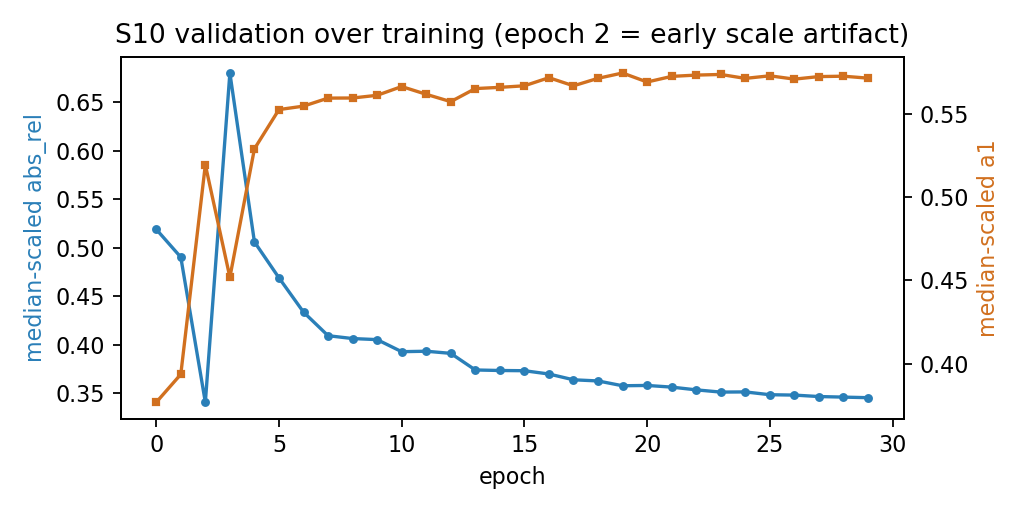
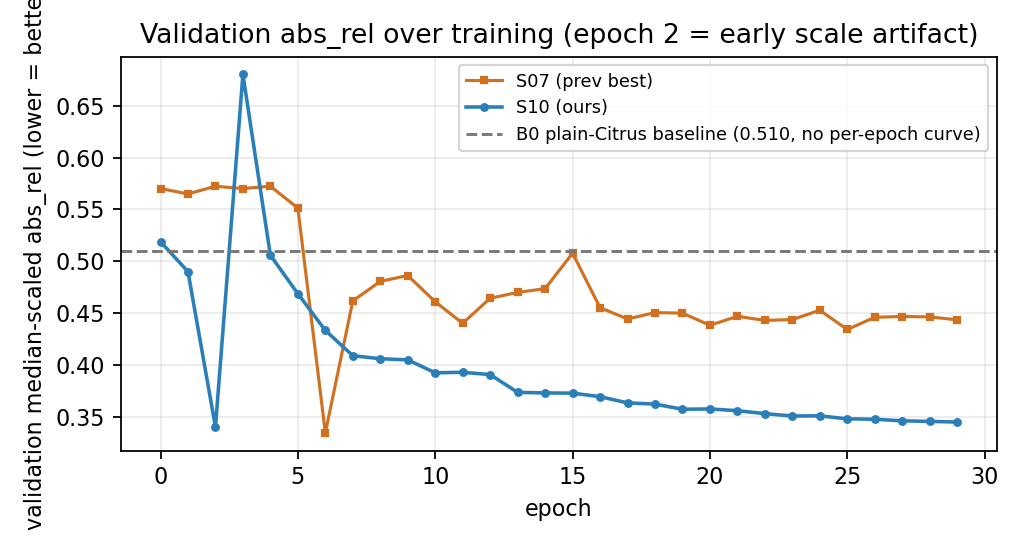
docs(m4): improve paper figures and link colors
- Epoch graph (fig_val_curve): overlay S10 vs S07 validation curves + B0 baseline
  reference line (baselines have no per-epoch curve, shown as a level).
- Qualitative panels (corridor/clearing): re-rendered via GPU inference as legible
  depth-in-meters (magma, shared colorbar: RGB | LiDAR | Original | S07 | S10),
  replacing the unreadable near-black disparity maps. Adds render_qual_compare.py.
- main.tex: colored hyperlinks (citations green, refs blue, URLs purple).

diff --git a/citrus_project/milestones/04_lightweight_vegetation_improvement/levinson/paper/render_qual_compare.py b/citrus_project/milestones/04_lightweight_vegetation_improvement/levinson/paper/render_qual_compare.py
@@ -1,0 +1,92 @@
+"""Re-render the qualitative comparison figures as legible DEPTH maps (not dark disparity).
+
+For each chosen frame: RGB | LiDAR label | Original | S07 | S10 predicted depth (median-scaled
+to the LiDAR per frame), all in the same magma colormap + shared colorbar — directly comparable.
+Needs the GPU + dataset_workspace; reuses the milestone-01 evaluator's model loader.
+
+Run from paper/:  D:/Conda_Envs/lite-mono/python.exe render_qual_compare.py
+"""
+from __future__ import annotations
+import csv, sys
+from pathlib import Path
+import numpy as np
+import matplotlib
+matplotlib.use("Agg")
+import matplotlib.pyplot as plt
+
+REPO = Path(__file__).resolve().parents[5]
+EVAL_DIR = REPO / "citrus_project" / "milestones" / "01_original_lite_mono_baseline"
+WORKSPACE = REPO / "citrus_project" / "dataset_workspace"
+FIG = Path(__file__).resolve().parent / "figures"
+LEV = Path(__file__).resolve().parents[1]
+sys.path.insert(0, str(EVAL_DIR))
+from evaluate_lite_mono_citrus import image_to_input_tensor, load_lite_mono_model, load_npz_array  # noqa: E402
+from PIL import Image  # noqa: E402
+
+MODELS = [
+    ("Original Lite-Mono", REPO / "weights" / "lite-mono"),
+    ("S07", LEV / "snapshots/07_structure_aware_label_free_vegetation_depth/checkpoint"),
+    ("S10 (ours)", LEV / "snapshots/10_ema_self_teacher/checkpoint"),
+]
+# frame index -> (output filename, scene label)
+FRAMES = {
+    358: ("fig_qual_corridor_good.png", "In-row corridor (low error)"),
+    44:  ("fig_qual_clearing_bad.png", "Open clearing (high error)"),
+}
+PS_CSV = LEV / "snapshots/10_ema_self_teacher/results/weights29_test_reverify/test_lite-mono_full_per_sample.csv"
+
+
+def infer_depth(model, rgb_path, shape):
+    import torch, torch.nn.functional as F
+    with Image.open(rgb_path) as im:
+        t = image_to_input_tensor(im.convert("RGB"), model)
+    with torch.no_grad():
+        feats = model.encoder(t)
+        out = model.depth_decoder(feats)
+        _, depth = model.disp_to_depth(out[("disp", 0)], model.min_depth, model.max_depth)
+        depth = F.interpolate(depth, size=shape, mode="bilinear", align_corners=False)
+    return depth.detach().cpu().numpy()[0, 0].astype(np.float32)
+
+
+rows = {int(r["index"]): r for r in csv.DictReader(open(PS_CSV))}
+loaded = [(name, load_lite_mono_model(weights_folder=wf.resolve(), model_name="lite-mono",
+                                      no_cuda=False, min_depth=0.1, max_depth=100.0))
+          for name, wf in MODELS]
+
+for index, (out_name, scene) in FRAMES.items():
+    r = rows[index]
+    rgb_path = WORKSPACE / r["rgb_rel"]
+    gt = load_npz_array(WORKSPACE / r["dense_rel"]).astype(np.float32)
+    valid = load_npz_array(WORKSPACE / r["valid_mask_rel"])
+    emask = (valid > 0) & np.isfinite(gt) & (gt > 0)
+    gt_med = float(np.median(gt[emask]))
+
+    preds = []
+    for name, model in loaded:
+        d = infer_depth(model, rgb_path, gt.shape)
+        ratio = gt_med / float(np.median(d[emask]))  # per-frame median scaling, like eval
+        preds.append((name, d * ratio))
+
+    allv = np.concatenate([gt[emask]] + [p[emask] for _, p in preds])
+    vmin, vmax = np.percentile(allv, 2), np.percentile(allv, 98)
+
+    n = 2 + len(preds)
+    fig, axes = plt.subplots(1, n, figsize=(3.0 * n, 3.0), constrained_layout=True)
+    axes[0].imshow(Image.open(rgb_path).convert("RGB")); axes[0].set_title("RGB", fontsize=10)
+    lab = np.where(emask, gt, np.nan)
+    axes[1].imshow(lab, cmap="magma_r", vmin=vmin, vmax=vmax)
+    axes[1].set_title("LiDAR depth (label)", fontsize=10)
+    im = None
+    for ax, (name, p) in zip(axes[2:], preds):
+        im = ax.imshow(p, cmap="magma_r", vmin=vmin, vmax=vmax)
+        ax.set_title(f"{name} depth", fontsize=10)
+    for ax in axes:
+        ax.axis("off")
+    cb = fig.colorbar(im, ax=axes, fraction=0.025, pad=0.01)
+    cb.set_label("depth (m)", fontsize=9)
+    fig.suptitle(f"{scene} — frame {index}, abs_rel={float(r['median_scaled_abs_rel']):.3f}, "
+                 f"a1={float(r['median_scaled_a1']):.3f}", fontsize=11)
+    fig.savefig(FIG / out_name, dpi=160)
+    plt.close(fig)
+    print(f"[ok] {out_name}  (vmin={vmin:.2f} vmax={vmax:.2f} m)")
+print("done")

diff --git a/citrus_project/milestones/04_lightweight_vegetation_improvement/levinson/paper/make_figures.py b/citrus_project/milestones/04_lightweight_vegetation_improvement/levinson/paper/make_figures.py
@@ -130,21 +130,31 @@ try:
 except Exception as e:
     print("[F5 fail]", e)
 
-# ---------- F6 per-epoch validation curve ----------
+# ---------- F6 per-epoch validation curve: S10 vs S07 vs B0 baseline ----------
 try:
-    sweep = LEV / "snapshots/10_ema_self_teacher/results/validation_sweep.csv"
-    ep, ar, a1 = [], [], []
-    for r in csv.DictReader(open(sweep)):
-        ep.append(int(r["epoch"])); ar.append(float(r["median_scaled_abs_rel"]))
-        a1.append(float(r["median_scaled_a1"]))
-    fig, ax1 = plt.subplots(figsize=(6.4, 3.2))
-    ax1.plot(ep, ar, color="#2a7fb8", marker="o", ms=3, label="val abs_rel")
-    ax1.set_xlabel("epoch"); ax1.set_ylabel("median-scaled abs_rel", color="#2a7fb8")
-    ax2 = ax1.twinx(); ax2.plot(ep, a1, color="#d1701f", marker="s", ms=3, label="val a1")
-    ax2.set_ylabel("median-scaled a1", color="#d1701f")
-    ax1.set_title("S10 validation over training (epoch 2 = early scale artifact)")
-    fig.tight_layout(); fig.savefig(FIG/"fig_val_curve.png", dpi=160)
-    plt.close(fig); print("[ok] fig_val_curve.png")
+    def load_sweep(p):
+        ep, ar = [], []
+        for r in csv.DictReader(open(p)):
+            ep.append(int(r["epoch"])); ar.append(float(r["median_scaled_abs_rel"]))
+        return ep, ar
+    s10_ep, s10_ar = load_sweep(LEV / "snapshots/10_ema_self_teacher/results/validation_sweep.csv")
+    s07_ep, s07_ar = load_sweep(LEV / "snapshots/07_structure_aware_label_free_vegetation_depth/results/validation_sweep.csv")
+    # B0 baseline has no per-epoch curve (only a final eval) -> horizontal reference line.
+    b0 = load_json(LEV / "snapshots/00_plain_citrus_baseline/results/val_lite-mono_full_summary.json")
+    b0_ar = (b0.get("mean_median_scaled_metrics", {}) or {}).get("abs_rel") if b0 else None
+
+    fig, ax = plt.subplots(figsize=(6.4, 3.4))
+    ax.plot(s07_ep, s07_ar, color="#d1701f", marker="s", ms=3, lw=1.4, label="S07 (prev best)")
+    ax.plot(s10_ep, s10_ar, color="#2a7fb8", marker="o", ms=3, lw=1.6, label="S10 (ours)")
+    if b0_ar:
+        ax.axhline(b0_ar, color="#777777", ls="--", lw=1.3,
+                   label=f"B0 plain-Citrus baseline ({b0_ar:.3f}, no per-epoch curve)")
+    ax.set_xlabel("epoch")
+    ax.set_ylabel("validation median-scaled abs_rel (lower = better)")
+    ax.set_title("Validation abs_rel over training (epoch 2 = early scale artifact)")
+    ax.legend(fontsize=8); ax.grid(alpha=0.25)
+    fig.tight_layout(); fig.savefig(FIG / "fig_val_curve.png", dpi=160)
+    plt.close(fig); print("[ok] fig_val_curve.png (S10 + S07 + B0 baseline)")
 except Exception as e:
     print("[F6 fail]", e)
 

diff --git a/citrus_project/milestones/04_lightweight_vegetation_improvement/levinson/paper/main.tex b/citrus_project/milestones/04_lightweight_vegetation_improvement/levinson/paper/main.tex
@@ -23,7 +23,11 @@
 \usepackage{subcaption}
 \usepackage{xcolor}
 \usepackage{url}
-\usepackage[hidelinks]{hyperref}
+% Colored hyperlinks: citations + figure/section/equation refs + URLs.
+\definecolor{citecolor}{HTML}{0B6E4F}   % green-teal for \cite
+\definecolor{linkcolor}{HTML}{1A56DB}   % blue for \ref (figures, tables, sections, eqs)
+\definecolor{urlcolor}{HTML}{8B2FC9}    % purple for URLs
+\usepackage[colorlinks=true,citecolor=citecolor,linkcolor=linkcolor,urlcolor=urlcolor]{hyperref}
 
 \graphicspath{{figures/}}
 